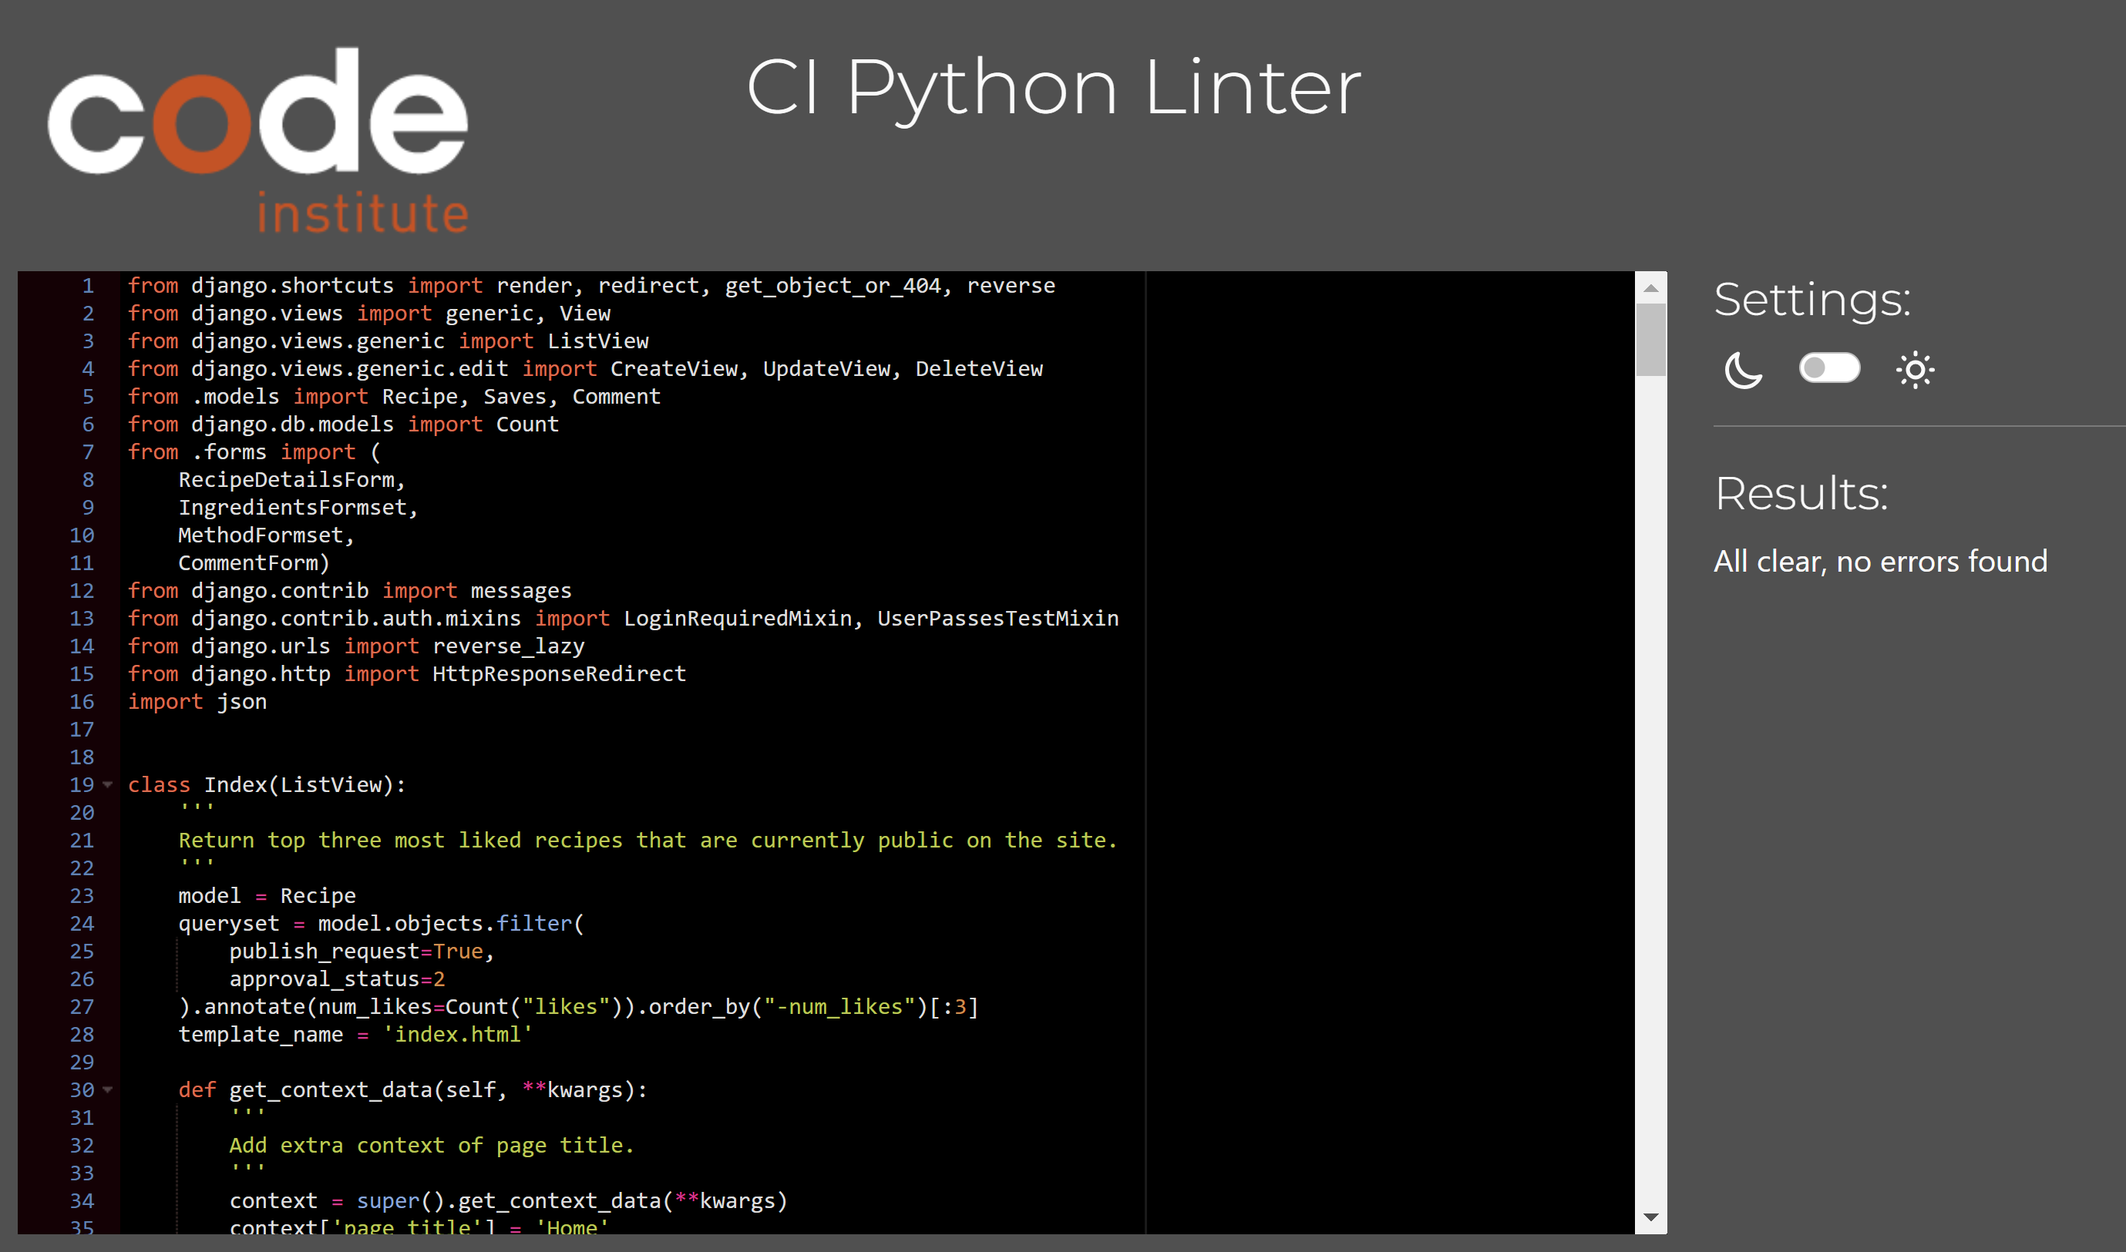
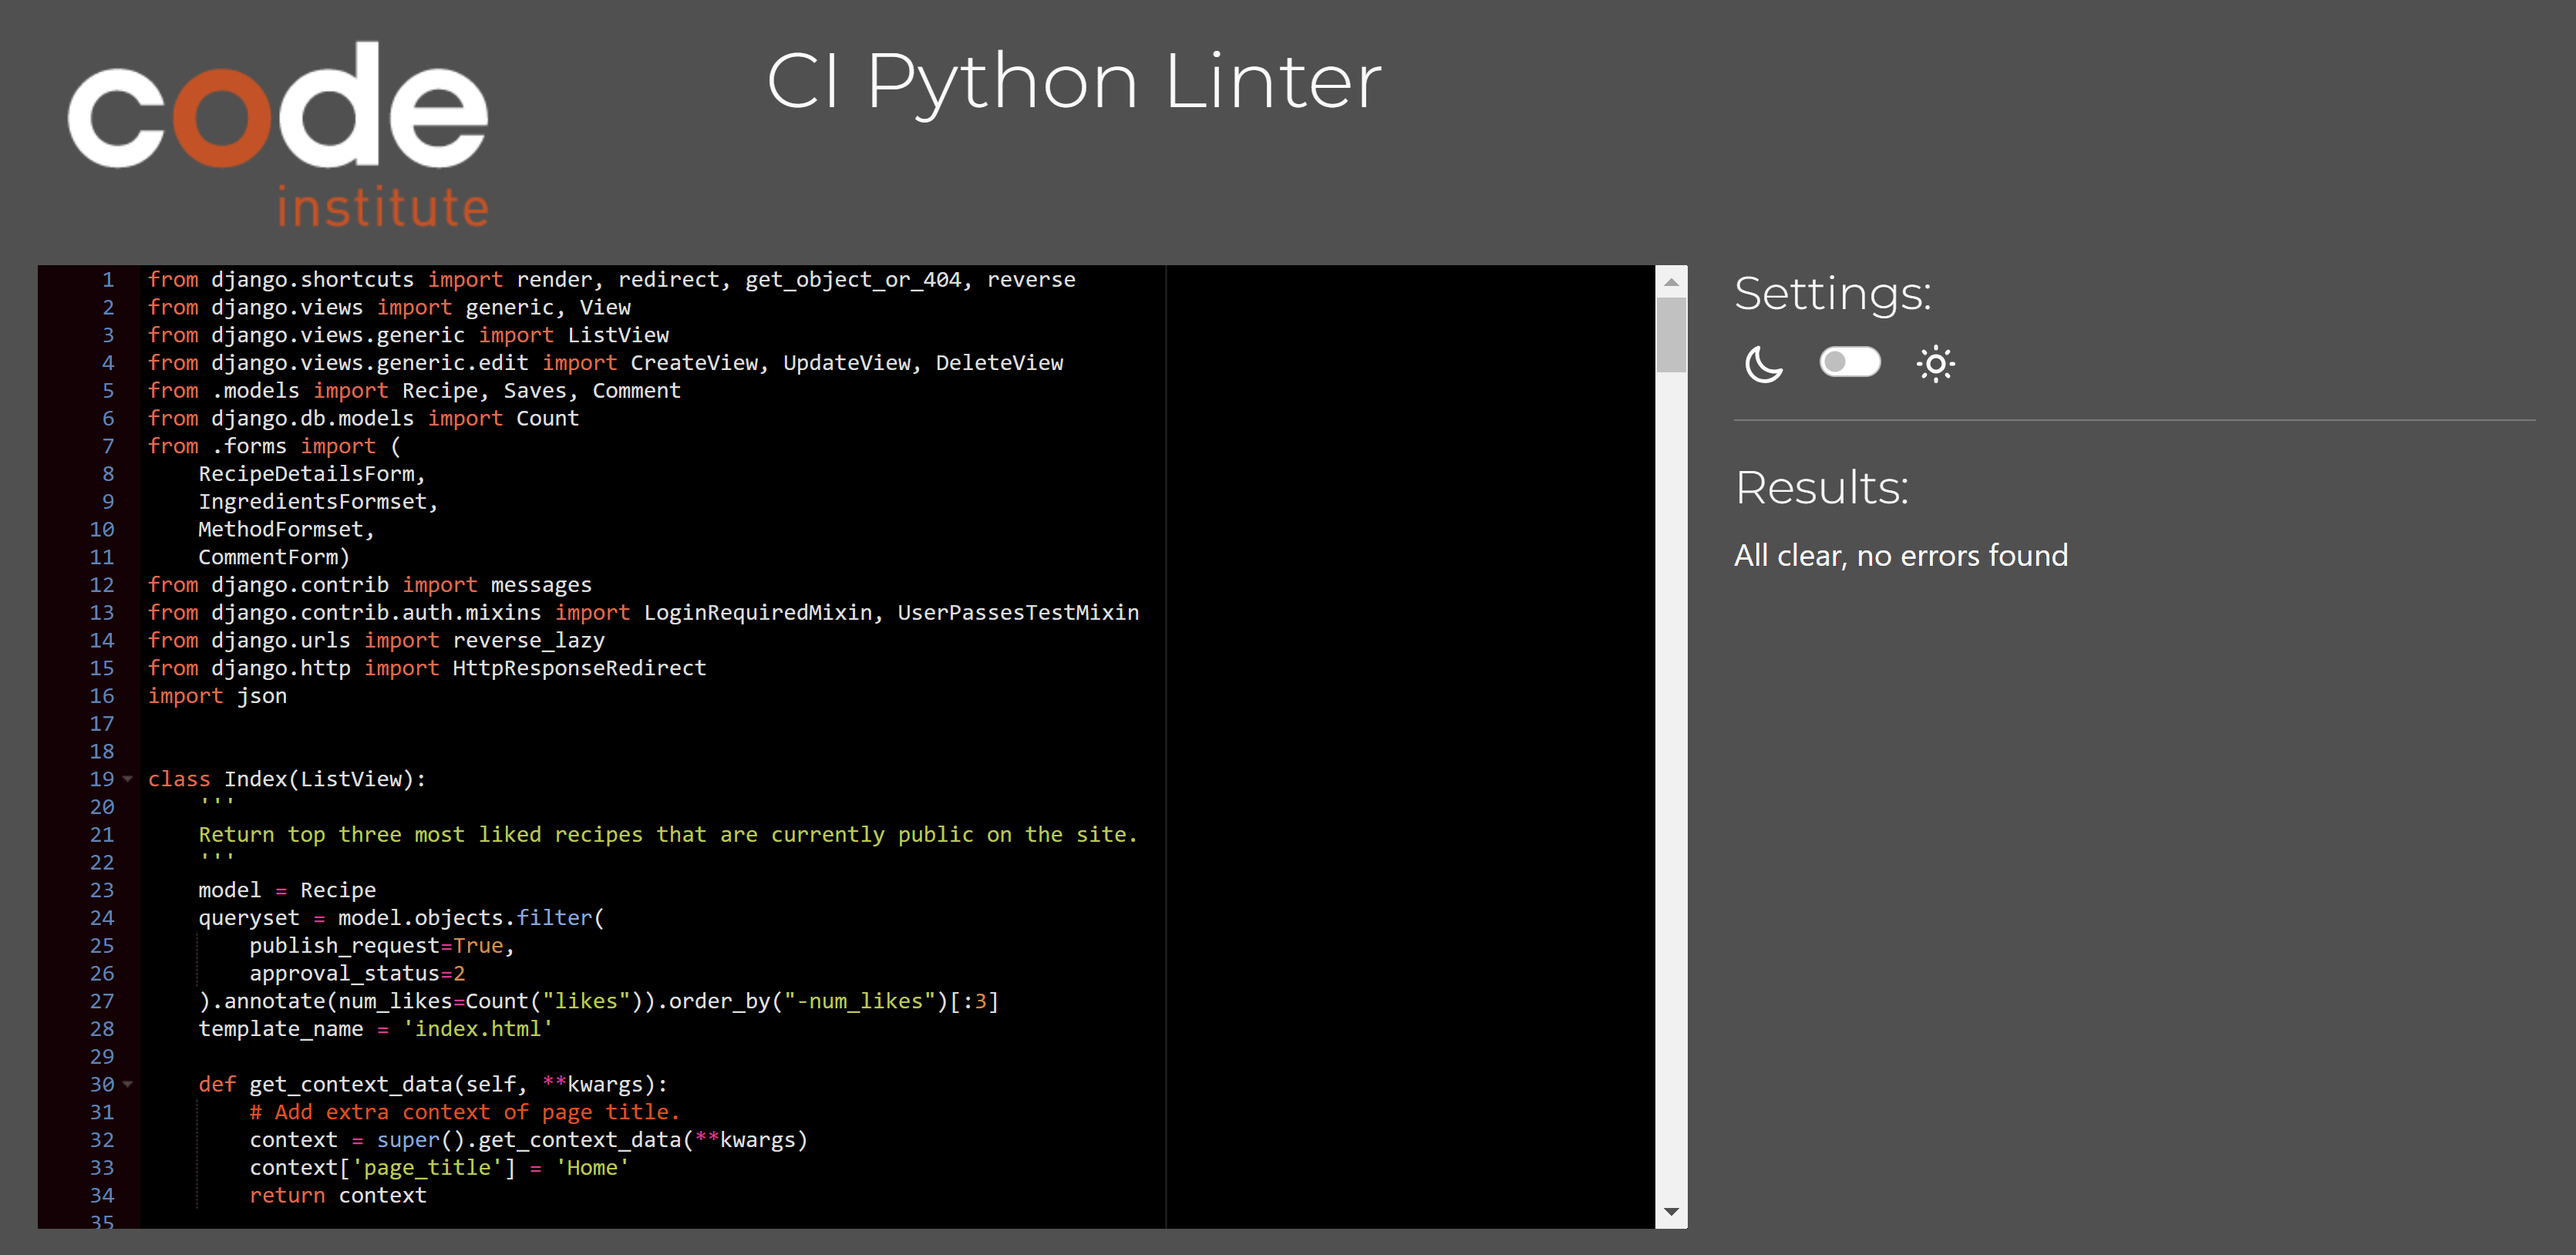
Tidy comments

Changed region(s): [[0.0, 0.0308, 0.9666, 0.9846], [0.3118, 0.0308, 0.6548, 0.0923]]

diff --git a/recipes/views.py b/recipes/views.py
@@ -28,9 +28,7 @@ class Index(ListView):
     template_name = 'index.html'
 
     def get_context_data(self, **kwargs):
-        '''
-        Add extra context of page title.
-        '''
+        # Add extra context of page title.
         context = super().get_context_data(**kwargs)
         context['page_title'] = 'Home'
         return context
@@ -69,10 +67,8 @@ class TagBrowse(ListView):
         return context
 
     def get_queryset(self):
-        '''
-        Return currently published recipes with the tag matching the button
-        value that the user clicked.
-        '''
+        # Return currently published recipes with the tag matching the button
+        # value that the user clicked.
         return Recipe.objects.filter(tags__slug=self.kwargs.get('tag_slug'))
 
 
@@ -89,10 +85,8 @@ class SavedRecipes(LoginRequiredMixin, ListView):
         return context
 
     def get_queryset(self):
-        '''
-        Return currently published recipes that have been saved by the user,
-        in reverse order of saved date.
-        '''
+        # Return currently published recipes that have been saved by the user,
+        # in reverse order of saved date.
         return Recipe.objects.filter(
             saves__user=self.request.user,
             publish_request=True,
@@ -113,10 +107,8 @@ class MyRecipes(LoginRequiredMixin, ListView):
         return context
 
     def get_queryset(self):
-        '''
-        Return all recipes that user has written,
-        in reverse order of created date.
-        '''
+        # Return all recipes that user has written,
+        # in reverse order of created date.
         return Recipe.objects.filter(
             author=self.request.user
         ).order_by('-created_on')
@@ -248,18 +240,16 @@ class RecipeSave(LoginRequiredMixin, View):
 
 
 class CreateRecipe(LoginRequiredMixin, CreateView):
-    """
+    '''
     Allow authenticated user to access create recipe form to submit recipes.
-    """
+    '''
     model = Recipe
     form_class = RecipeDetailsForm
     template_name = 'create_edit_recipe.html'
     success_url = reverse_lazy('my_recipes')
 
     def get_context_data(self, **kwargs):
-        '''
-        Add ingredients formset, method formset and page title to context.
-        '''
+        # Add ingredients formset, method formset and page title to context.
         context = super().get_context_data(**kwargs)
         if self.request.POST:
             context['ingredients_formset'] = IngredientsFormset(
@@ -280,9 +270,7 @@ class CreateRecipe(LoginRequiredMixin, CreateView):
         return context
 
     def form_valid(self, form):
-        '''
-        Validate submitted form.
-        '''
+        # Validate submitted form.
         context = self.get_context_data()
         ingredients_formset = context['ingredients_formset']
         method_formset = context['method_formset']
@@ -339,11 +327,11 @@ class RecipeOwnerTest(UserPassesTestMixin):
 
 
 class EditRecipe(LoginRequiredMixin, RecipeOwnerTest, UpdateView):
-    """
+    '''
     Allow authenticated user that passes RecipeOwnerTest to edit recipes.
     Display create recipe form populated with values from the
     recipe being edited.
-    """
+    '''
     model = Recipe
     form_class = RecipeDetailsForm
     template_name = 'create_edit_recipe.html'
